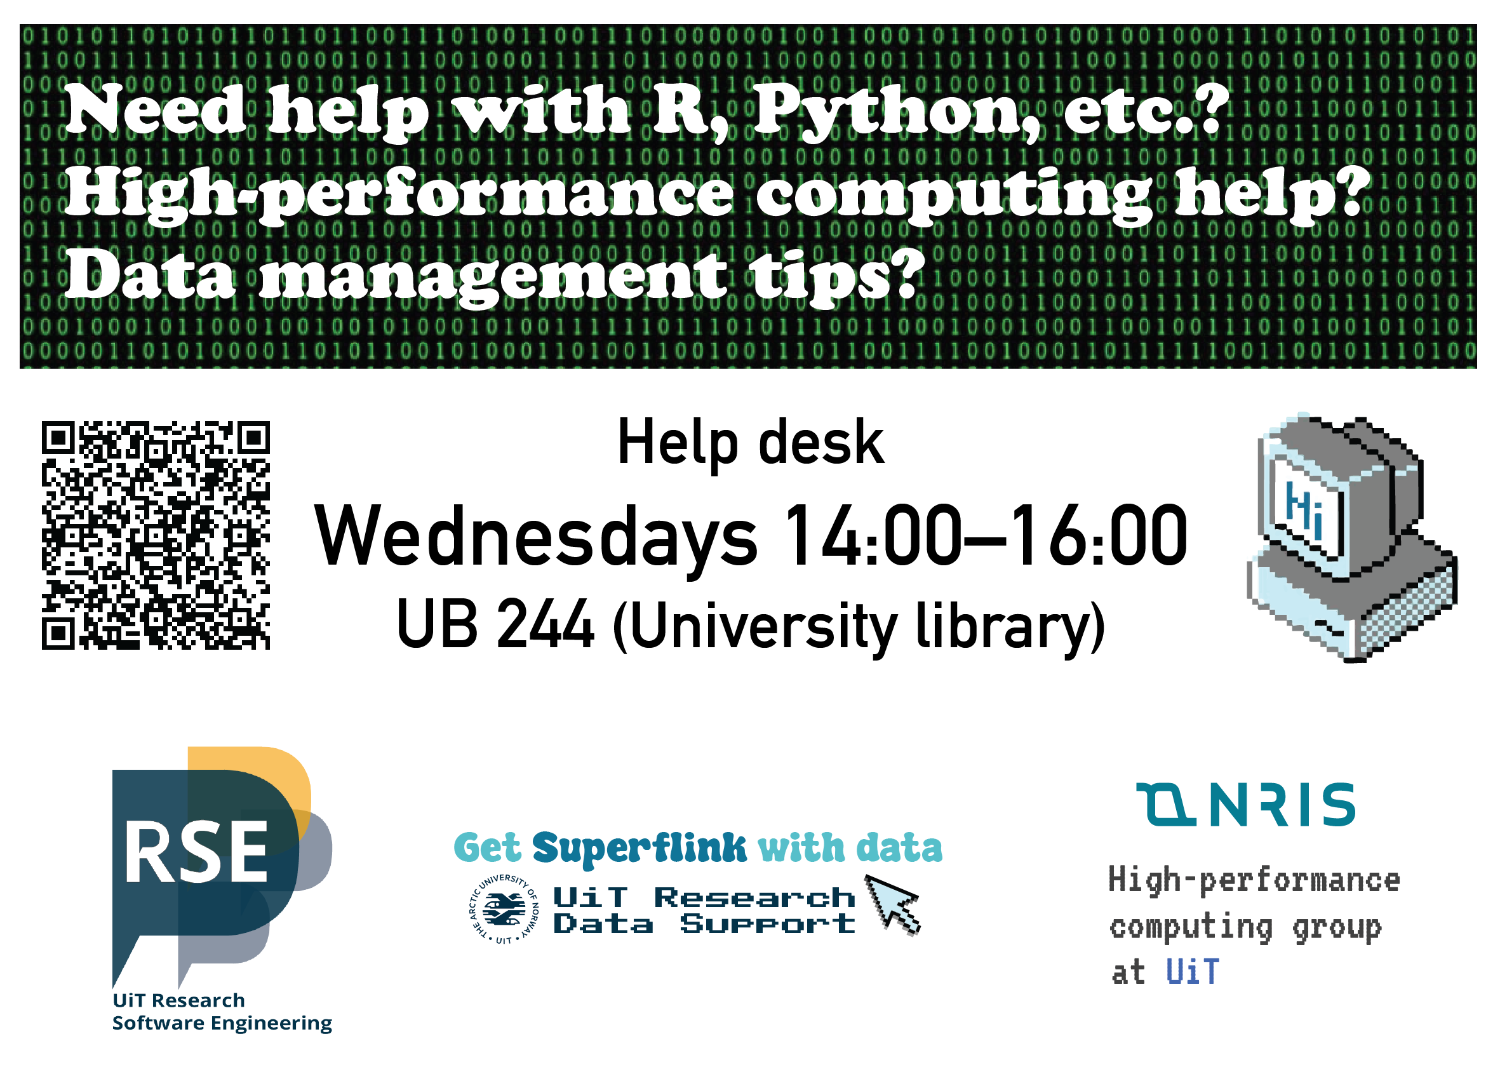
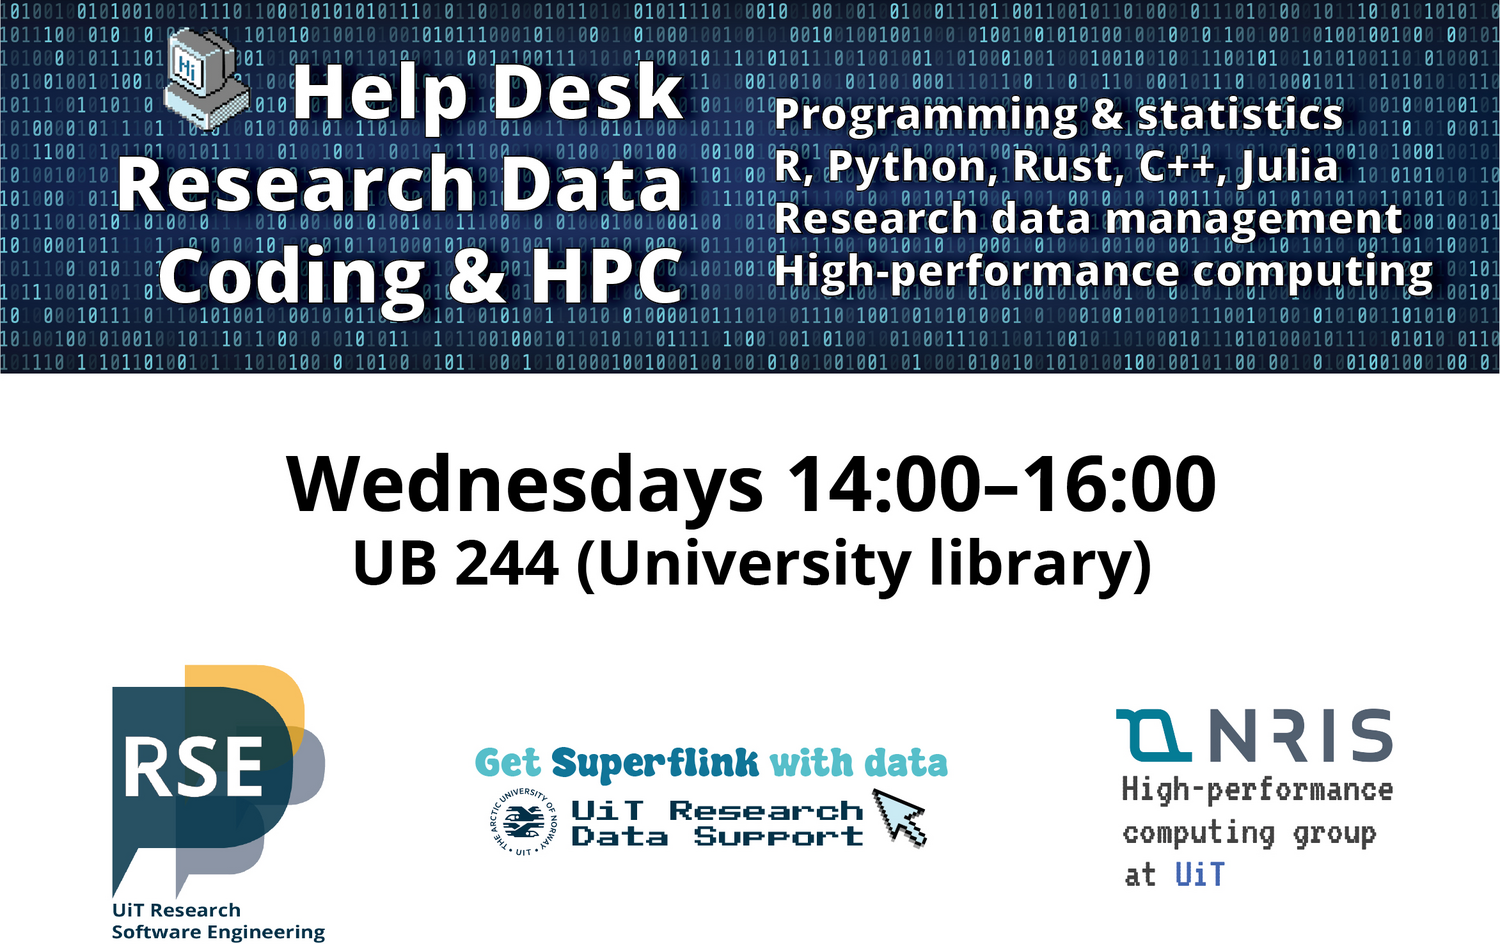
Update slides and images - Additional bold text - Updated RSE conference references/links - Slightly more verbose help descriptions - Text-based service level descriptions - Convert "Office Hours" to "RSE Help Desk" - Remove IT/Admin-targed slides

diff --git a/rse-intro-short.md b/rse-intro-short.md
@@ -11,11 +11,11 @@ class: gray-background
 ---
 # Software development is part of research
 
-- Scientists typically spend 30% of their time developing software
+- Scientists typically spend **30%** of their time developing software
 
 - 90% or more are primarily self-taught
 
-- Many are unaware of tools and practices that would allow them to write more reliable and maintainable code with less effort
+- Many are unaware of tools and practices that would allow them to write **more reliable and maintainable code** with less effort
 
 .cite[Wilson, Greg, et al. "Best practices for scientific computing." PLoS biology 12.1 (2014): e1001745.]
 
@@ -23,7 +23,7 @@ class: gray-background
 
 # Research software engineers
 
-.. are people who combine .emph[professional software expertise] with an .emph[understanding of research] .cite[https://researchsoftware.org/]
+- ... are people who combine .emph[professional software expertise] with an .emph[understanding of research] .cite[https://researchsoftware.org/]
 
 - Often people **who grew up in research** and liked computing and programming
 
@@ -33,17 +33,17 @@ class: gray-background
 ## Resources
 
 - [Society of Research Software Engineering](https://society-rse.org/)
-- Recent conference: [RSECon 2023](https://rsecon23.society-rse.org/)
+- Recent conference: [RSECon 2025](https://rsecon25.society-rse.org/)
 - https://nordic-rse.org/
-- [Nordic-RSE unconference 2023](https://nordic-rse.org/events/2023-online-unconference/)
+- [Nordic-RSE conference 2025](https://nordic-rse.org/blog/nrse-conference-report/)
 
 ---
 
 # Help with improving your scripts/code
 
-- .emph[Code review] (we discuss code in a constructive way)
-- Making code .emph[more reusable]
-- Good practices for documentation
+- .emph[Collaborative code review] (we discuss code in a constructive way)
+- Making code .emph[cleaner, faster, and more reusable]
+- Best practices for documentation
 
 <img src="img/review.jpg"
      alt="Image showing a 'diff' (before and after) used during code review"
@@ -103,7 +103,7 @@ class: gray-background
 
 - Porting to GPU
 
-- Moving from local computer to cloud or HPC
+- Moving from local computer to cloud or high-performance computing clusters
 
 - Helping with running independent steps in parallel
 ]
@@ -120,8 +120,11 @@ class: gray-background
 
 # Service levels
 
-<img src="img/service-levels-no-title.png"
-     style="width: 100%;"/>
+- **Help Desk:** 2 hours on (almost) every Wednesday at the UiT Library (UB 244) - .emph[FREE] (first come/first serve)
+
+- **Individual Consultations:** One-on-one with an RSE engineer.  Initial consultation free, afterwards 600 kr/hr (5-hour minimum).
+
+- **Extended Collaborations:**  Part-time or full-time contracts with the RSE group (include us in your grant applications!) - 600kr/hr 
 
 ---
 
@@ -131,64 +134,9 @@ class: gray-background
 ---
 class: center, middle, inverse
 
-# Office hours: Wednesday 14:00 - 16:00
+# RSE Help Desk: Wednesday 14:00 - 16:00
 
 ## https://research-software.uit.no/contact/
 
 ## Email: rse@uit.no 
-
----
-
-# Our vision
-
-## Short term
-
-- Provide consulting: good advice is **not** expensive
-- .emph[Code review] sessions
-- Work on "smaller" projects and .emph[document use cases]
-- Focus on UiT
-- Attract more projects 
-
-
-## Longer term
-
-- Be part of funding applications (successful applications with Hylleraas Centre and Framsenteret)
-- Research groups have access to best in class RSE services
-- Hire more staff who collaborate on projects
-- "Proper" application procedure 
-- Going beyond UiT
-- .emph[Career path opportunities]
-
----
-
-## Survey results
-
-<img src="2024-survey/time-saved.png"
-     alt="Plot estimating time saving"
-     style="width: 600px;"/>
-
-<img src="2024-survey/recommending.png"
-     alt="How likely are you to recommend?"
-     style="width: 600px;"/>
-
----
-
-# RSE is an established field
-
-.left-column50[
-<img src="img/rse-york.png"
-     alt="FAIR principles: findable, accessible, interoperable, reusable"
-     style="height: 350px;"/>
-]
-
-.right-column50[
-<img src="img/rse-princeton.png"
-     alt="FAIR principles: findable, accessible, interoperable, reusable"
-     style="height: 350px;"/>
-]
----
-
-<img src="img/rse-website.png"
-     alt="FAIR principles: findable, accessible, interoperable, reusable"
-     style="width: 100%;"/>
 
